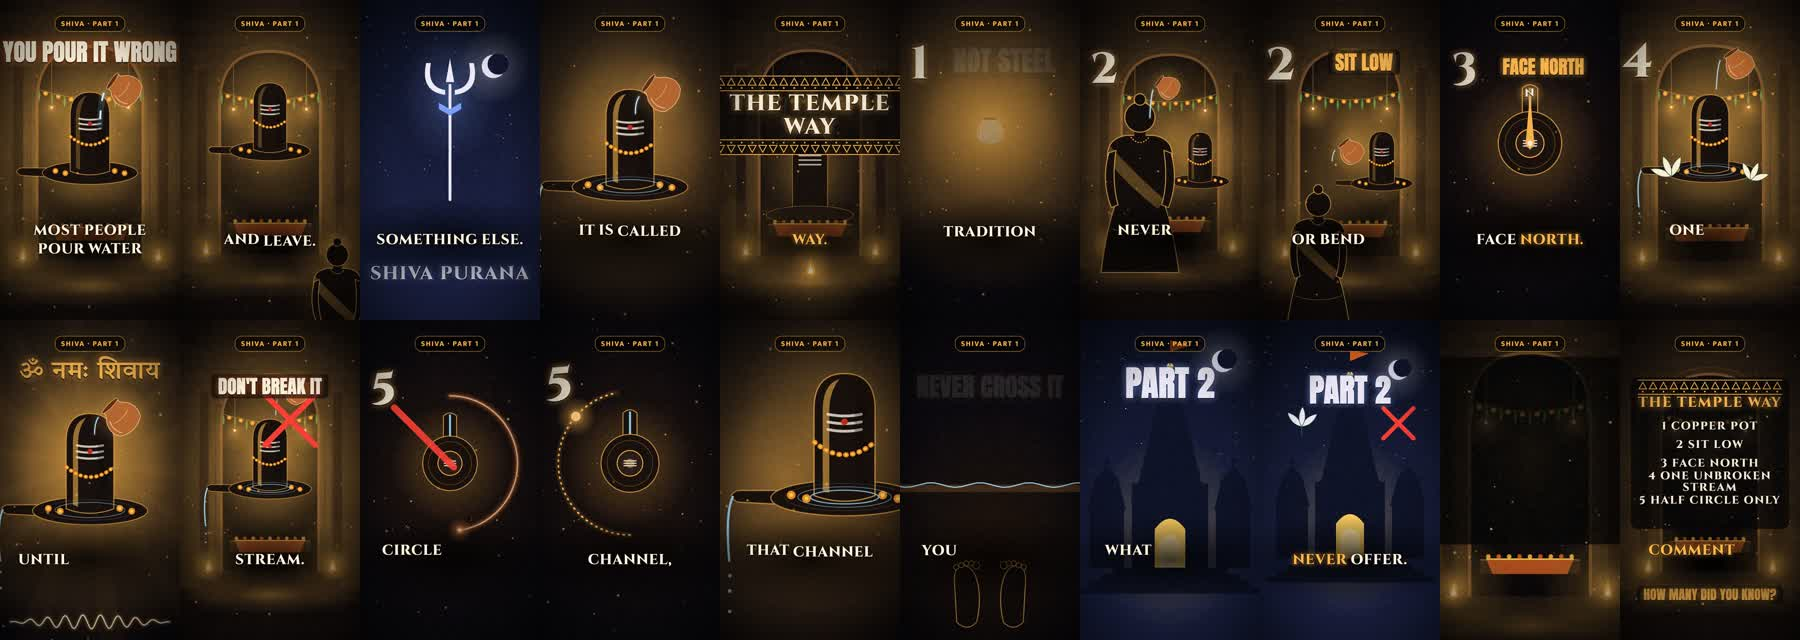
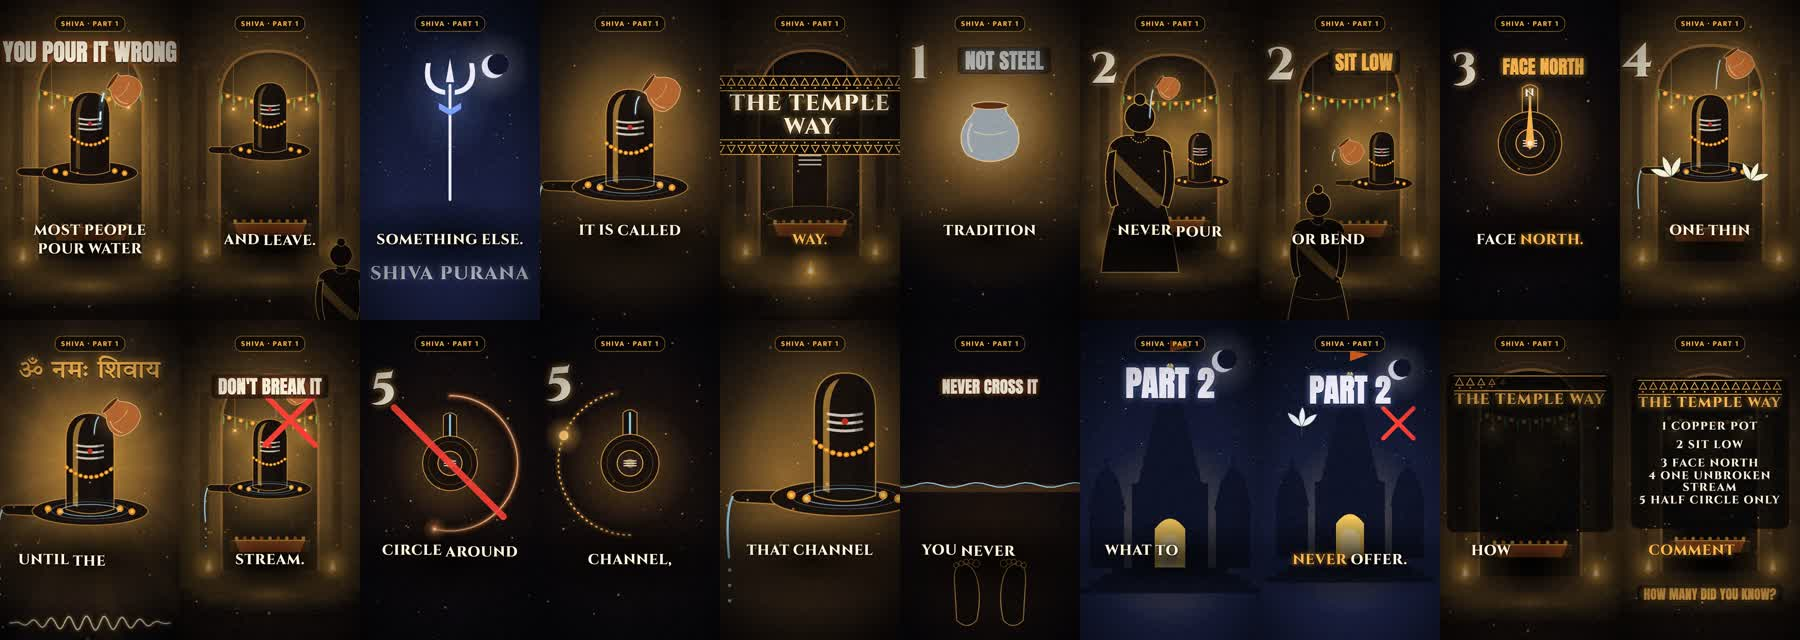
Reel 4 v2 judged: both judges rank reels 2 and 4 above the real reel; v3 fixes, final render started
Claude-Session: https://claude.ai/code/session_01Gy5RgGBibuvxR5H9sESUN3

diff --git a/remotion/src/lib/Text.tsx b/remotion/src/lib/Text.tsx
@@ -29,7 +29,7 @@ export const Captions: React.FC<{ words: Word[]; style?: "serif" | "pop"; p: Pal
   return (
     <>
     {/* soft dark pool behind the words so they read on any picture */}
-    <div style={{ position: "absolute", left: -100, right: -100, top: y - 260, height: 520, background: `radial-gradient(ellipse 55% 50% at 50% 50%, rgba(0,0,0,${pop ? 0.62 : 0.78}) 0%, rgba(0,0,0,0) 100%)` }} />
+    <div style={{ position: "absolute", left: 0, right: 0, top: y - 190, height: 380, background: pop ? "linear-gradient(180deg, rgba(0,0,0,0) 0%, rgba(0,0,0,0.72) 30%, rgba(0,0,0,0.72) 70%, rgba(0,0,0,0) 100%)" : `radial-gradient(ellipse 55% 50% at 50% 50%, rgba(0,0,0,0.78) 0%, rgba(0,0,0,0) 100%)`, transform: pop ? undefined : "scale(1.4, 1.37)" }} />
     <div style={{ position: "absolute", left: 70, right: 70, top: y, transform: "translateY(-50%)", textAlign: "center", fontFamily: fontFor(style, text),
       fontSize: fs, lineHeight: pop ? 1.12 : 1.3, fontWeight: 800, letterSpacing: pop ? 1 : 3, textTransform: "uppercase", color: p.fg }}>
       {c.words.map((w, i) => {

diff --git a/makes/reel4_parashuram/build.py b/makes/reel4_parashuram/build.py
@@ -19,22 +19,23 @@ hills = lambda col=INK, y=1560: {"kind": "hills", "x": 540, "y": y, "color": col
 para = lambda **k: fig(**{"color": RED, "prop": "axe", **k})
 ram = lambda **k: fig(**{"color": INK, "crown": True, **k})
 vbow = lambda **k: {"kind": "bow", "x": 560, "y": 800, "s": 0.8, "color": "#bfe0ff", "color2": BL, "enter": "none", **k}
+def name(t, x, y, col="#ffe9d6", at=0): return {"kind": "text", "text": t, "x": x, "y": y, "size": 64, "font": "pop", "color": col, "glow": None, "at": at, "textEnter": "fade", "width": 500, "panel": True}
 S = []
 def sc(at, **k): k.setdefault("bg", {"kind": "linear"}); S.append((at, k))
 # 1 hook: Parashuram blocks Ram's path (stakes, two figures, lightning between them)
 sc(0.0, palette="blood", bg={"kind": "radial", "cy": 50}, cam={"z0": 1.15, "z1": 1.0, "shakeAt": 0.5, "shake": 22}, layers=[{"kind": "bolt", "x": 540, "y": 520, "color": "#ffd24a", "len": 1100, "enter": "none", "until": 2.6}, {"kind": "fire", "x": 200, "y": 1560, "color": "#ff5a2a", "color2": "#ffd24a", "w": 520, "h": 420, "enter": "none"},
-   para(x=250, y=1180, s=3.2), ram(x=830, y=1210, s=2.9, color="#fff1dd"), txt("परशुराम vs राम", y=400, size=140, col="#ffe9d6", glow="#ff5a2a")])
+   para(x=250, y=1100, s=3.0), ram(x=830, y=1120, s=2.8, color="#fff1dd"), name("परशुराम", 250, 760), name("राम", 830, 760), txt("परशुराम vs राम", y=400, size=128, col="#ffe9d6", glow="#ff5a2a")])
 # 2 the wedding party heads home
 t = T("विवाह") - 0.1; sc(t, trans="fade", palette="dusk", bg={"kind": "horizon"}, cam={"x0": -70, "x1": 70}, layers=[{"kind": "sun", "x": 780, "y": 640, "r": 160, "color": Y}, {"kind": "palace", "x": 220, "y": 1180, "s": 0.42, "color": INK, "color2": "#e2603a", "enter": "none"}, hills(),
    {"kind": "crowd", "x": 420, "y": 1260, "count": 6, "cols": 6, "gap": 150, "s": 1.6, "color": INK, "anim": "walk", "enter": "none", "move": {"x": 260}}, {"kind": "chest", "x": 240, "y": 1330, "s": 0.4, "roll": 3, "color": INK, "color2": "#e2603a", "enter": "none", "move": {"x": 260}}, {"kind": "birds", "x": 80, "y": 380, "color": INK, "count": 6, "enter": "none"}])
 # 3 a storm rises, darkness falls
 t = T("अचानक") - 0.1; sc(t, trans="flash", palette="storm", bg={"kind": "radial", "cy": 40}, cam={"z0": 1.0, "z1": 1.12, "shakeAt": 0.2, "shake": 26}, layers=[{"kind": "bolt", "x": 300, "y": 0, "color": "#9fe3ff", "len": 1000, "enter": "none", "until": 1.6}, {"kind": "bolt", "x": 800, "y": 0, "color": "#9fe3ff", "len": 900, "seed": 4, "at": 1.4, "enter": "none"},
-   {"kind": "birds", "x": 300, "y": 700, "color": "#cfe6f5", "count": 9, "s": 1.8, "enter": "none", "move": {"x": -500, "y": -400}}, {"kind": "crowd", "x": 540, "y": 1280, "count": 12, "cols": 6, "gap": 150, "rowGap": 150, "s": 1.25, "color": "#cfe6f5", "anim": "tremble", "enter": "none"}, txt("आँधी", y=400, size=190, col="#eef6ff", glow="#9fe3ff", at=T("आँधी") - t)])
+   {"kind": "birds", "x": 300, "y": 700, "color": "#cfe6f5", "count": 9, "s": 1.8, "enter": "none", "move": {"x": -500, "y": -400}}, {"kind": "crowd", "x": 540, "y": 980, "count": 12, "cols": 6, "gap": 150, "rowGap": 150, "s": 1.15, "color": "#cfe6f5", "anim": "tremble", "enter": "none"}, txt("आँधी", y=400, size=190, col="#eef6ff", glow="#9fe3ff", at=T("आँधी") - t)])
 # 4 and there stood Parashuram
-t = T("और") - 0.1; sc(t, trans="cut", palette="blood", bg={"kind": "radial", "cy": 45}, dust=True, cam={"z0": 1.3, "z1": 1.45, "shakeAt": T("परशुराम", 2) - t, "shake": 24}, layers=[{"kind": "rays", "x": 540, "y": 800, "opacity": 0.3, "color": "#ff5a2a"}, para(x=540, y=1120, s=4.2),
+t = T("और") - 0.1; sc(t, trans="cut", palette="blood", bg={"kind": "radial", "cy": 45}, dust=True, cam={"z0": 1.3, "z1": 1.45, "shakeAt": T("परशुराम", 2) - t, "shake": 24}, layers=[{"kind": "rays", "x": 540, "y": 800, "opacity": 0.3, "color": "#ff5a2a"}, para(x=540, y=1040, s=3.9),
    txt("परशुराम", y=400, size=190, col="#ffe9d6", glow="#ff5a2a", at=T("परशुराम", 2) - t)])
 # 5 axe on his shoulder, another bow in his hand
-t = T("कंधे") - 0.1; sc(t, trans="punch", palette="blood", bg={"kind": "radial", "cy": 50}, dust=True, cam={"z0": 1.0, "z1": 1.1}, layers=[para(x=330, y=1150, s=3.4), {"kind": "glowdot", "x": 760, "y": 860, "r": 300, "color2": BL, "at": T("हाथ") - t, "enter": "fade"}, vbow(x=790, y=860, s=0.7, at=T("हाथ") - t, enter="pop")])
+t = T("कंधे") - 0.1; sc(t, trans="punch", palette="blood", bg={"kind": "radial", "cy": 50}, dust=True, cam={"z0": 1.0, "z1": 1.1}, layers=[para(x=330, y=1060, s=3.1), {"kind": "glowdot", "x": 760, "y": 860, "r": 300, "color2": BL, "at": T("हाथ") - t, "enter": "fade"}, vbow(x=790, y=860, s=0.7, at=T("हाथ") - t, enter="pop")])
 # 6 "you broke Shiva's old bow; this is Vishnu's bow"
 t = T("उन्होंने") - 0.1; vt = T("यह") - t
 sc(t, trans="fade", palette="night", bg={"kind": "linear"}, stars=True, cam={"z0": 1.0, "z1": 1.1}, layers=[{"kind": "bow", "x": 300, "y": 820, "s": 0.45, "rot": 90, "color": "#ffe08a", "color2": "#fff", "glow": False, "breakAt": 0, "enter": "none"}, txt("शिव", x=300, y=1120, size=90, col="#ffe08a", enter="fade", glow=None),
@@ -43,7 +44,7 @@ sc(t, trans="fade", palette="night", bg={"kind": "linear"}, stars=True, cam={"z0
 t = T("इस") - 0.1; yd = T("युद्ध") - t
 sc(t, trans="punch", palette="blood", bg={"kind": "radial", "cy": 48}, cam={"z0": 1.0, "z1": 1.15, "shakeAt": yd, "shake": 28}, layers=[vbow(x=560, y=820, s=0.9), {"kind": "arrow", "x": 520, "y": 820, "color": "#fff1dd", "len": 520, "at": T("बाण") - t, "enter": "slide_l"}, txt("युद्ध", y=400, size=230, col="#ffe9d6", glow="#ff5a2a", at=yd)])
 # 8 Dasharath trembles and pleads; Parashuram does not listen
-t = T("राजा") - 0.1; sc(t, trans="fade", cam={"z0": 1.05, "z1": 1.0}, layers=[{"kind": "border", "x": 540, "y": 250}, fig(x=330, y=1080, s=2.6, crown=True, pose="pray", anim="tremble"), fig(x=800, y=1020, s=3.0, color=DK, prop="axe"),
+t = T("राजा") - 0.1; sc(t, trans="fade", cam={"z0": 1.05, "z1": 1.0}, layers=[{"kind": "border", "x": 540, "y": 250}, fig(x=330, y=1000, s=2.5, crown=True, pose="pray", anim="tremble"), fig(x=800, y=960, s=2.8, color=DK, prop="axe"), name("दशरथ", 330, 700, C),
    {"kind": "cross", "x": 560, "y": 760, "color": "#ff3b30", "size": 120, "width": 30, "at": T("पर", 3) - t + 0.6, "enter": "none"}, txt("विनती", x=330, y=620, size=110, at=T("विनती") - t, enter="pop")])
 # 9 Ram steps forward and takes the bow
 t = T("राम", 2) - 0.1; sc(t, trans="flash", palette="dusk", bg={"kind": "horizon"}, cam={"z0": 1.0, "z1": 1.12}, layers=[{"kind": "sun", "x": 540, "y": 720, "r": 250, "color": Y}, hills(), ram(x=380, y=1300, s=3.2, anim="walk", move={"x": 160, "over": 2.0}), vbow(x=820, y=980, s=0.5, at=T("धनुष", 4) - t, enter="pop")])
@@ -56,14 +57,14 @@ t = T("अब") - 0.1; sc(t, trans="cut", palette="night", bg={"kind": "radial",
 # 12 "which shall I destroy: your speed, or the worlds you won?"
 t = T("बताइए") - 0.1; g1 = T("गति") - t; l1 = T("लोक") - t
 sc(t, trans="fade", palette="night", bg={"kind": "linear"}, stars=True, cam={"z0": 1.0, "z1": 1.06}, layers=[{"kind": "rect", "x": 540, "y": 900, "w": 6, "h": 900, "color": "#f4f1ff", "opacity": 0.4, "enter": "none"},
-   {"kind": "glowdot", "x": 280, "y": 860, "r": 220, "color2": Y, "opacity": 0.5, "enter": "none"}, {"kind": "wave", "x": 280, "y": 860, "color": Y, "w": 420, "amp": 90, "fade": 900, "enter": "none"}, {"kind": "birds", "x": 150, "y": 640, "color": Y, "count": 4, "enter": "none"}, txt("गति", x=280, y=1120, size=130, col=Y, glow=Y, at=g1, enter="pop"),
-   {"kind": "glowdot", "x": 800, "y": 860, "r": 220, "color2": BL, "opacity": 0.6, "enter": "none"}, {"kind": "yantra", "x": 800, "y": 860, "r": 190, "draw": 1.5, "color": "#f4f1ff", "petals": 6, "triangles": 2}, txt("लोक", x=800, y=1120, size=130, col="#f4f1ff", glow=BL, at=l1, enter="pop"), txt("क्या नष्ट करूँ?", y=400, size=110, col="#f4f1ff", glow=BL, at=0.2)])
+   {"kind": "glowdot", "x": 280, "y": 860, "r": 220, "color2": Y, "opacity": 0.5, "enter": "none"}, {"kind": "wave", "x": 280, "y": 860, "color": Y, "w": 420, "amp": 90, "fade": 900, "enter": "none"}, {"kind": "birds", "x": 150, "y": 640, "color": Y, "count": 4, "enter": "none"}, txt("गति", x=280, y=1120, size=130, col=Y, glow=Y, at=0.1, enter="pop"),
+   {"kind": "glowdot", "x": 800, "y": 860, "r": 220, "color2": BL, "opacity": 0.6, "enter": "none"}, {"kind": "yantra", "x": 800, "y": 860, "r": 190, "draw": 1.5, "color": "#f4f1ff", "petals": 6, "triangles": 2}, txt("लोक", x=800, y=1120, size=130, col="#f4f1ff", glow=BL, at=0.3, enter="pop"), {"kind": "rings", "x": 280, "y": 860, "color": Y, "at": g1, "count": 2, "max": 320, "enter": "none"}, {"kind": "rings", "x": 800, "y": 860, "color": BL, "at": l1, "count": 2, "max": 320, "enter": "none"}, txt("क्या नष्ट करूँ?", y=400, size=110, col="#f4f1ff", glow=BL, at=0.2)])
 # 13 Parashuram's glow drains; he understands this is Vishnu himself
 t = T("परशुराम", 4) - 0.1; vs = T("विष्णु", 2) - t
 sc(t, trans="fade", palette="night", bg={"kind": "radial", "cy": 40}, stars=True, cam={"z0": 1.0, "z1": 1.15}, layers=[{"kind": "rays", "x": 660, "y": 760, "opacity": 0.22, "color": BL, "at": vs - 0.6, "enter": "fade"}, {"kind": "yantra", "x": 660, "y": 760, "r": 400, "at": vs - 0.8, "draw": 1.2, "color": "#bfe0ff", "spin": 0.6},
-   {"kind": "glowdot", "x": 660, "y": 800, "r": 420, "color2": BL, "opacity": 0.5, "enter": "none"}, ram(x=660, y=1220, s=3.4, color="#f4f1ff"), para(x=240, y=1340, s=1.9, color="#c9584a", pose="kneel"), txt("विष्णु", y=400, size=200, col="#f4f1ff", glow=BL, at=vs)])
+   {"kind": "glowdot", "x": 660, "y": 800, "r": 420, "color2": BL, "opacity": 0.5, "enter": "none"}, ram(x=660, y=1220, s=3.4, color="#f4f1ff"), para(x=240, y=1200, s=1.9, color="#c9584a", pose="kneel"), txt("विष्णु", y=400, size=200, col="#f4f1ff", glow=BL, at=vs)])
 # 14 "leave me my speed; take the worlds"
-t = T("उन्होंने", 2) - 0.1; sc(t, trans="cut", palette="blood", bg={"kind": "radial", "cy": 55}, cam={"z0": 1.3, "z1": 1.2}, layers=[para(x=540, y=1150, s=3.4, pose="kneel"), txt("लोक ले लो", y=400, size=130, col="#ffe9d6", glow="#ff5a2a", at=T("लोक", 2) - t)])
+t = T("उन्होंने", 2) - 0.1; sc(t, trans="cut", palette="blood", bg={"kind": "radial", "cy": 55}, cam={"z0": 1.12, "z1": 1.0}, layers=[{"kind": "glowdot", "x": 800, "y": 820, "r": 360, "color2": BL, "opacity": 0.6, "enter": "none"}, ram(x=800, y=1100, s=3.0, color="#f4f1ff"), para(x=300, y=1160, s=2.8, color="#c9584a", pose="kneel"), name("परशुराम", 300, 800), name("राम", 800, 720), txt("लोक ले लो", y=400, size=130, col="#ffe9d6", glow="#ff5a2a", at=T("लोक", 2) - t)])
 # 15 Ram lets the arrow fly
 t = T("राम", 4) - 0.1; rel = T("छोड़") - t
 sc(t, trans="punch", palette="night", bg={"kind": "linear"}, stars=True, cam={"z0": 1.0, "z1": 1.1, "shakeAt": rel, "shake": 30}, layers=[{"kind": "arrow", "x": 200, "y": 860, "s": 1.3, "color": "#fff", "len": 420, "enter": "none", "at": rel, "move": {"x": 1400, "over": 0.5}},

diff --git a/makes/LOG.md b/makes/LOG.md
@@ -18,3 +18,4 @@
 | 2026-11-09 22:53 | **Reel 2 corrected final** replaces the earlier file: `renders/best/reel2_pinaka_1080.mp4` (65 s, 30 MB; larger header, hero headlines clear of it, 0.5 s lead-in) | Final QC PASS (−14.5 LUFS, contrast 9.8). Known small defect left in: the opening headline "5,000 आदमी हारे" is slightly wider than the frame |
 | 2026-11-09 22:51 | **Reel 4 v1** (Ramayana part 2: Parashuram vs Ram, Hindi, free voice, 17 scenes) | QC FAIL on pace only (119 wpm). Own review: axe blade oversized, the "choice" scene opens empty, dark figures on dark. v2: voice regenerated 24% faster (71 s), fixes applied |
 | 2026-11-09 22:59 | **Reel 3 final** `renders/best/reel3_jal_1080.mp4` (v3, 68 s, 31 MB, free voice) | Final QC PASS (−14.1 LUFS, contrast 12.5, 20 cuts) |
+| 2026-11-09 23:03 | **Reel 4 v2** (Ramayana part 2, 72 s). Blind ranking, 2 judges, vs reel 2 and the real 480K-view Pinaka reel | Judge 1: **reel 4 > reel 2 > real reel**. Judge 2: **reel 2 > reel 4 > real reel**. Both judges put the real reel last (gap to it "clear"); reels 2 and 4 are "close". Fixes asked for reel 4: an empty beat in the "choice" scene, captions on a solid strip clear of figures, name labels on characters. Applied → final render |
